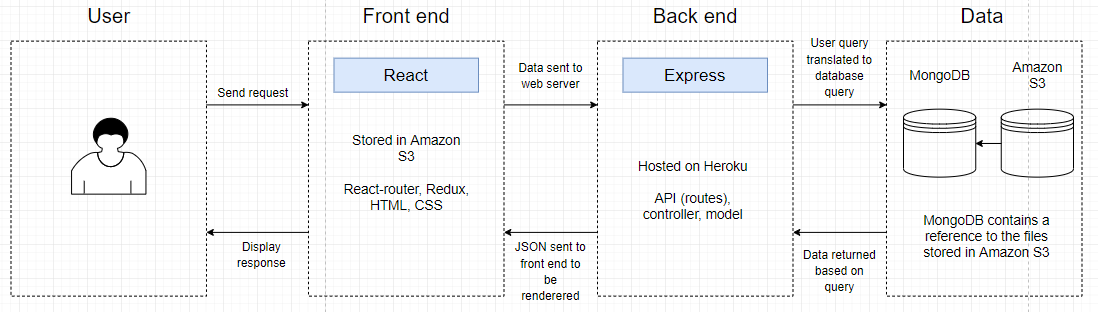
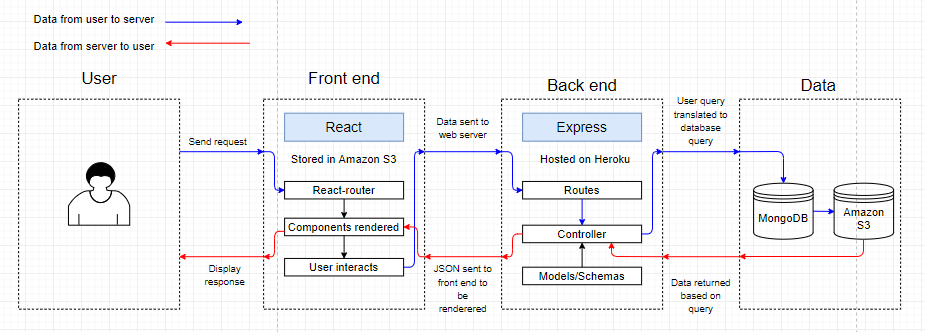
improved application architecture diagram

diff --git a/README.md b/README.md
@@ -3,12 +3,21 @@
 ## 1. Dataflow Diagram
 testing
 
-## 2. Application Artchitecture
+## 2. Application Architecture
 
 ![MERN_Application_Architecture](/docs/MERN-Application-Architecture.PNG)
 
 ## 3. User stories
-Mark
+
+1. As the owner of Accordant, I want users to have to log into the website to view the learning material, so I may protect my business secrets
+
+2. As the owner of Accordant, I want to have control over which information users have access to, even after they have registered an account, so I may protect my business secrets
+
+3. As a learner, I want to be able to access the learning material, so I may improve my ability to use Accordant and Adobe offerings
+
+4. As a learner, I want to be able to search for lessons, so I may find useful content more easily
+
+5. 
 
 ## 4. Wireframes
 
